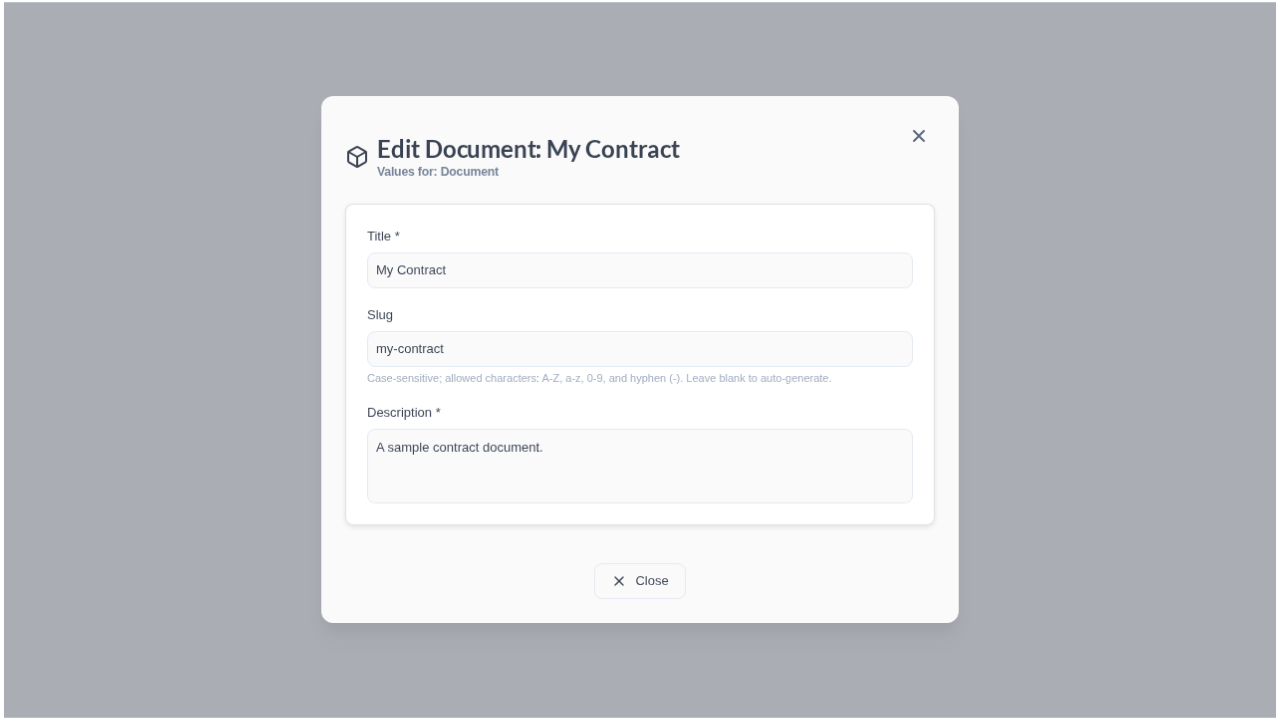
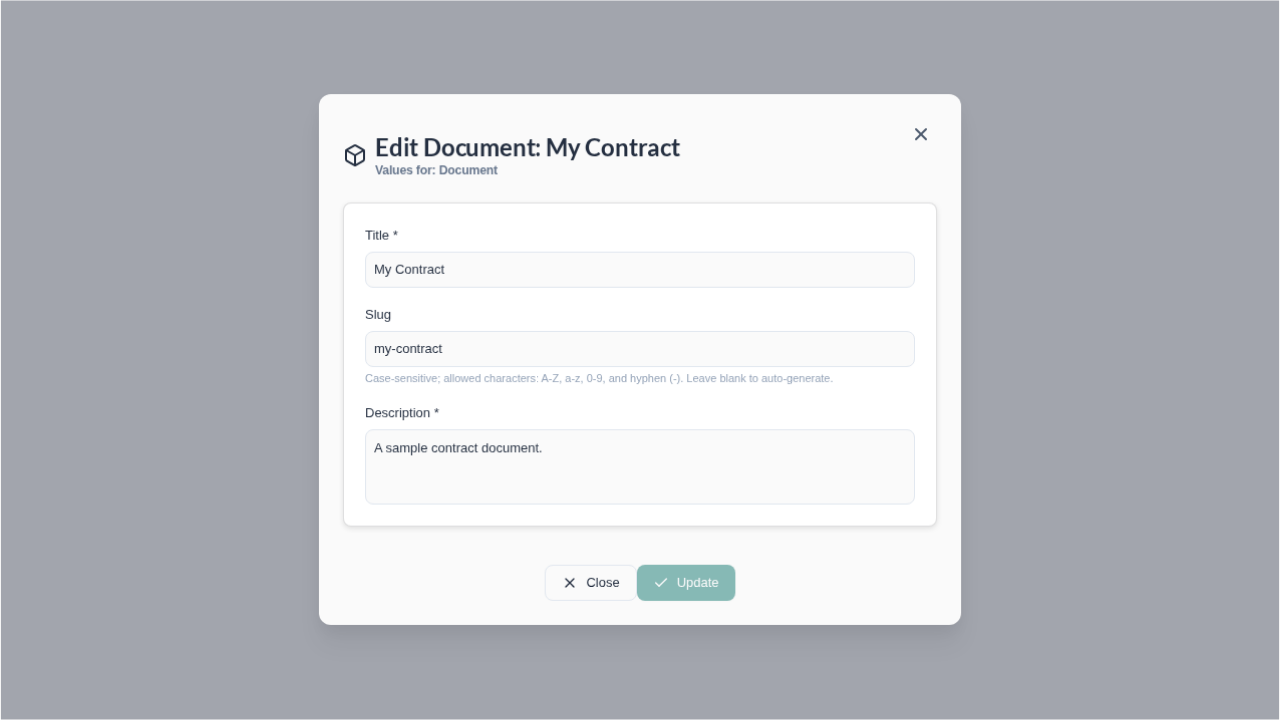
Remove renderForm type cast, extract error styles, improve submit UX
- Thread generic T from CRUDModal to CRUDWidget, eliminating the
  type-safety-bypassing cast on renderForm
- Extract inline error styles to ValidationErrors styled component
  using design tokens (OS_LEGAL_COLORS.danger, CSS vars)
- Show submit button as disabled instead of hidden when form is
  unchanged or validation fails (clearer affordance)
- Add slug format validation to validateTitleAndDescription

diff --git a/frontend/src/components/widgets/CRUD/CRUDModal.tsx b/frontend/src/components/widgets/CRUD/CRUDModal.tsx
@@ -16,6 +16,14 @@ import {
   VerticallyCenteredDiv,
 } from "../../layout/Wrappers";
 import { OS_LEGAL_COLORS } from "../../../assets/configurations/osLegalStyles";
+import styled from "styled-components";
+
+const ValidationErrors = styled.div`
+  color: var(--oc-color-error, ${OS_LEGAL_COLORS.danger});
+  font-size: var(--oc-font-size-sm, 0.875rem);
+  text-align: center;
+  margin-bottom: var(--oc-spacing-sm, 0.5rem);
+`;
 
 /**
  * Props for the ObjectCRUDModal component.
@@ -174,24 +182,18 @@ export function CRUDModal<T extends Record<string, any> = Record<string, any>>({
       <ModalBody style={{ position: "relative", overflow: "auto" }}>
         {/* Overlay while the mutation is running */}
         <LoadingOverlay active={loading} inverted content="Saving..." />
-        <CRUDWidget
+        <CRUDWidget<T>
           mode={mode}
-          instance={instanceObj}
+          instance={instanceObj as T}
           modelName={modelName}
           showHeader={false}
-          handleInstanceChange={handleModelChange}
+          handleInstanceChange={handleModelChange as (inst: T) => void}
           hasFile={hasFile}
           fileField={fileField}
           fileLabel={fileLabel}
           fileIsImage={fileIsImage}
           acceptedFileTypes={acceptedFileTypes}
-          renderForm={
-            renderForm as (
-              formData: Record<string, any>,
-              onChange: (updates: Partial<Record<string, any>>) => void,
-              disabled: boolean
-            ) => React.ReactNode
-          }
+          renderForm={renderForm}
         />
         <VerticallyCenteredDiv>{listeningChildren}</VerticallyCenteredDiv>
         {children}
@@ -200,18 +202,11 @@ export function CRUDModal<T extends Record<string, any> = Record<string, any>>({
         {canWrite &&
           validationErrors.length > 0 &&
           !_.isEqual(oldInstance, instanceObj) && (
-            <div
-              style={{
-                color: "var(--oc-color-error, #d32f2f)",
-                fontSize: "0.875rem",
-                textAlign: "center",
-                marginBottom: "0.5rem",
-              }}
-            >
+            <ValidationErrors>
               {validationErrors.map((err, i) => (
                 <div key={i}>{err}</div>
               ))}
-            </div>
+            </ValidationErrors>
           )}
         <HorizontallyCenteredDiv>
           <Button
@@ -222,22 +217,21 @@ export function CRUDModal<T extends Record<string, any> = Record<string, any>>({
           >
             Close
           </Button>
-          {canWrite &&
-            onSubmit &&
-            isValid &&
-            !_.isEqual(oldInstance, instanceObj) && (
-              <Button
-                variant="primary"
-                loading={loading}
-                disabled={loading}
-                leftIcon={<Check size={16} />}
-                onClick={() => {
-                  onSubmit(mode === "EDIT" ? updatedFieldsObj : instanceObj);
-                }}
-              >
-                {mode === "EDIT" ? "Update" : "Create"}
-              </Button>
-            )}
+          {canWrite && onSubmit && (
+            <Button
+              variant="primary"
+              loading={loading}
+              disabled={
+                loading || !isValid || _.isEqual(oldInstance, instanceObj)
+              }
+              leftIcon={<Check size={16} />}
+              onClick={() => {
+                onSubmit(mode === "EDIT" ? updatedFieldsObj : instanceObj);
+              }}
+            >
+              {mode === "EDIT" ? "Update" : "Create"}
+            </Button>
+          )}
         </HorizontallyCenteredDiv>
       </ModalFooter>
     </Modal>

diff --git a/frontend/tests/CRUDModal.ct.tsx b/frontend/tests/CRUDModal.ct.tsx
@@ -135,18 +135,16 @@ test.describe("CRUDModal", () => {
       timeout: 5000,
     });
 
-    // No Update button initially because the form hasn't changed
-    await expect(
-      page.getByRole("button", { name: "Update" })
-    ).not.toBeVisible();
+    // Update button is visible but disabled (no changes yet)
+    const updateButton = page.getByRole("button", { name: "Update" });
+    await expect(updateButton).toBeVisible();
+    await expect(updateButton).toBeDisabled();
 
     // Make a change — type a new title
     await page.getByLabel("Title *").fill("Updated Title");
 
-    // Now the Update button should appear
-    await expect(page.getByRole("button", { name: "Update" })).toBeVisible({
-      timeout: 5000,
-    });
+    // Now the Update button should be enabled
+    await expect(updateButton).toBeEnabled({ timeout: 5000 });
 
     await docScreenshot(page, "crud--modal-document--edit-with-changes");
 
@@ -177,10 +175,10 @@ test.describe("CRUDModal", () => {
     // Clear the title field — this should trigger validation failure
     await page.getByLabel("Title *").fill("");
 
-    // Even though we made a change, validation fails so no Update button
-    await expect(
-      page.getByRole("button", { name: "Update" })
-    ).not.toBeVisible();
+    // Button is visible but disabled when validation fails
+    const updateButton = page.getByRole("button", { name: "Update" });
+    await expect(updateButton).toBeVisible();
+    await expect(updateButton).toBeDisabled();
 
     // The validation error message should be visible
     await expect(page.getByText("Title is required")).toBeVisible();

diff --git a/frontend/src/components/forms/shared.ts b/frontend/src/components/forms/shared.ts
@@ -8,8 +8,11 @@ export const FormField = styled.div`
   }
 `;
 
+/** Slug must be A-Z, a-z, 0-9, and hyphen only (matches helper text in DocumentFormFields). */
+const SLUG_PATTERN = /^[A-Za-z0-9-]+$/;
+
 /**
- * Validates that title and description are non-empty.
+ * Validates that title and description are non-empty, and slug (if provided) is well-formed.
  * Stable reference — safe to pass as a prop without busting memoization.
  */
 export const validateTitleAndDescription = (
@@ -18,5 +21,8 @@ export const validateTitleAndDescription = (
   const errors: string[] = [];
   if (!data.title?.trim()) errors.push("Title is required");
   if (!data.description?.trim()) errors.push("Description is required");
+  if (data.slug?.trim() && !SLUG_PATTERN.test(data.slug.trim())) {
+    errors.push("Slug may only contain A-Z, a-z, 0-9, and hyphen (-)");
+  }
   return errors;
 };
